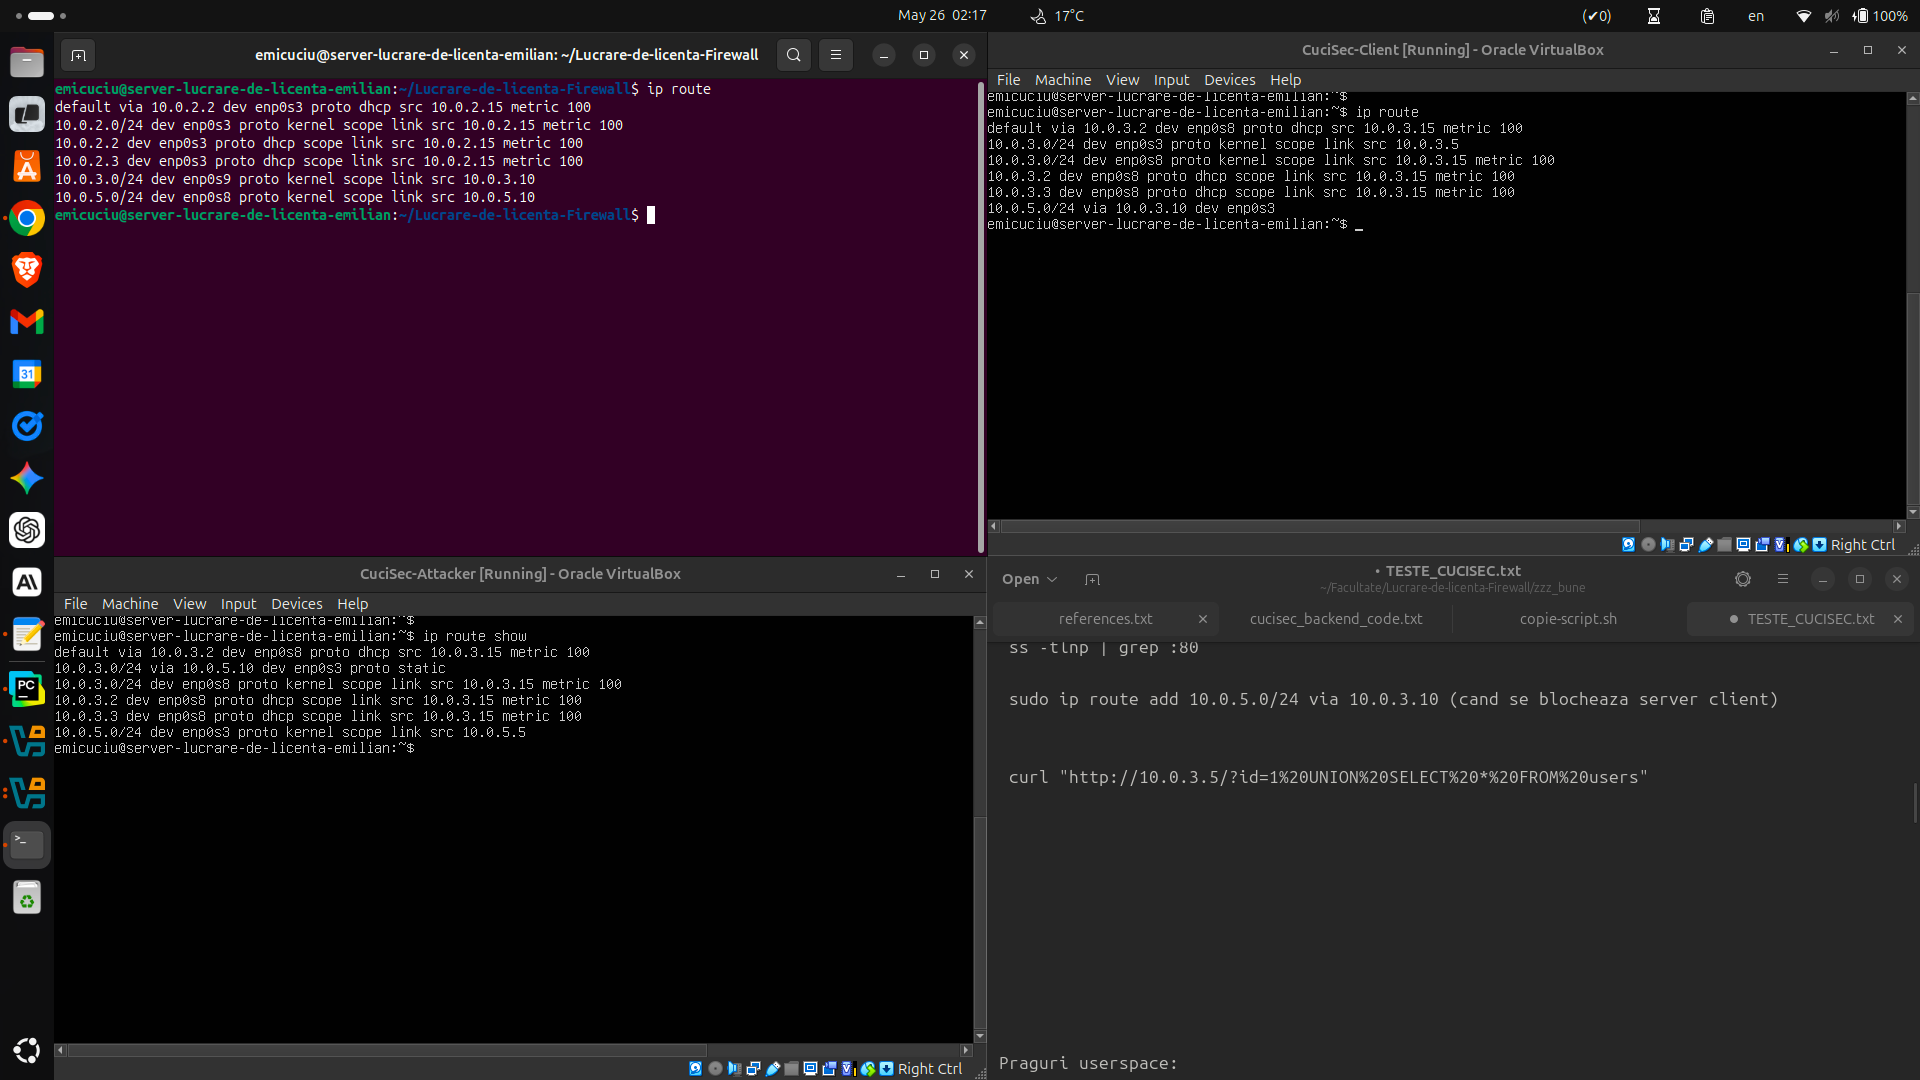
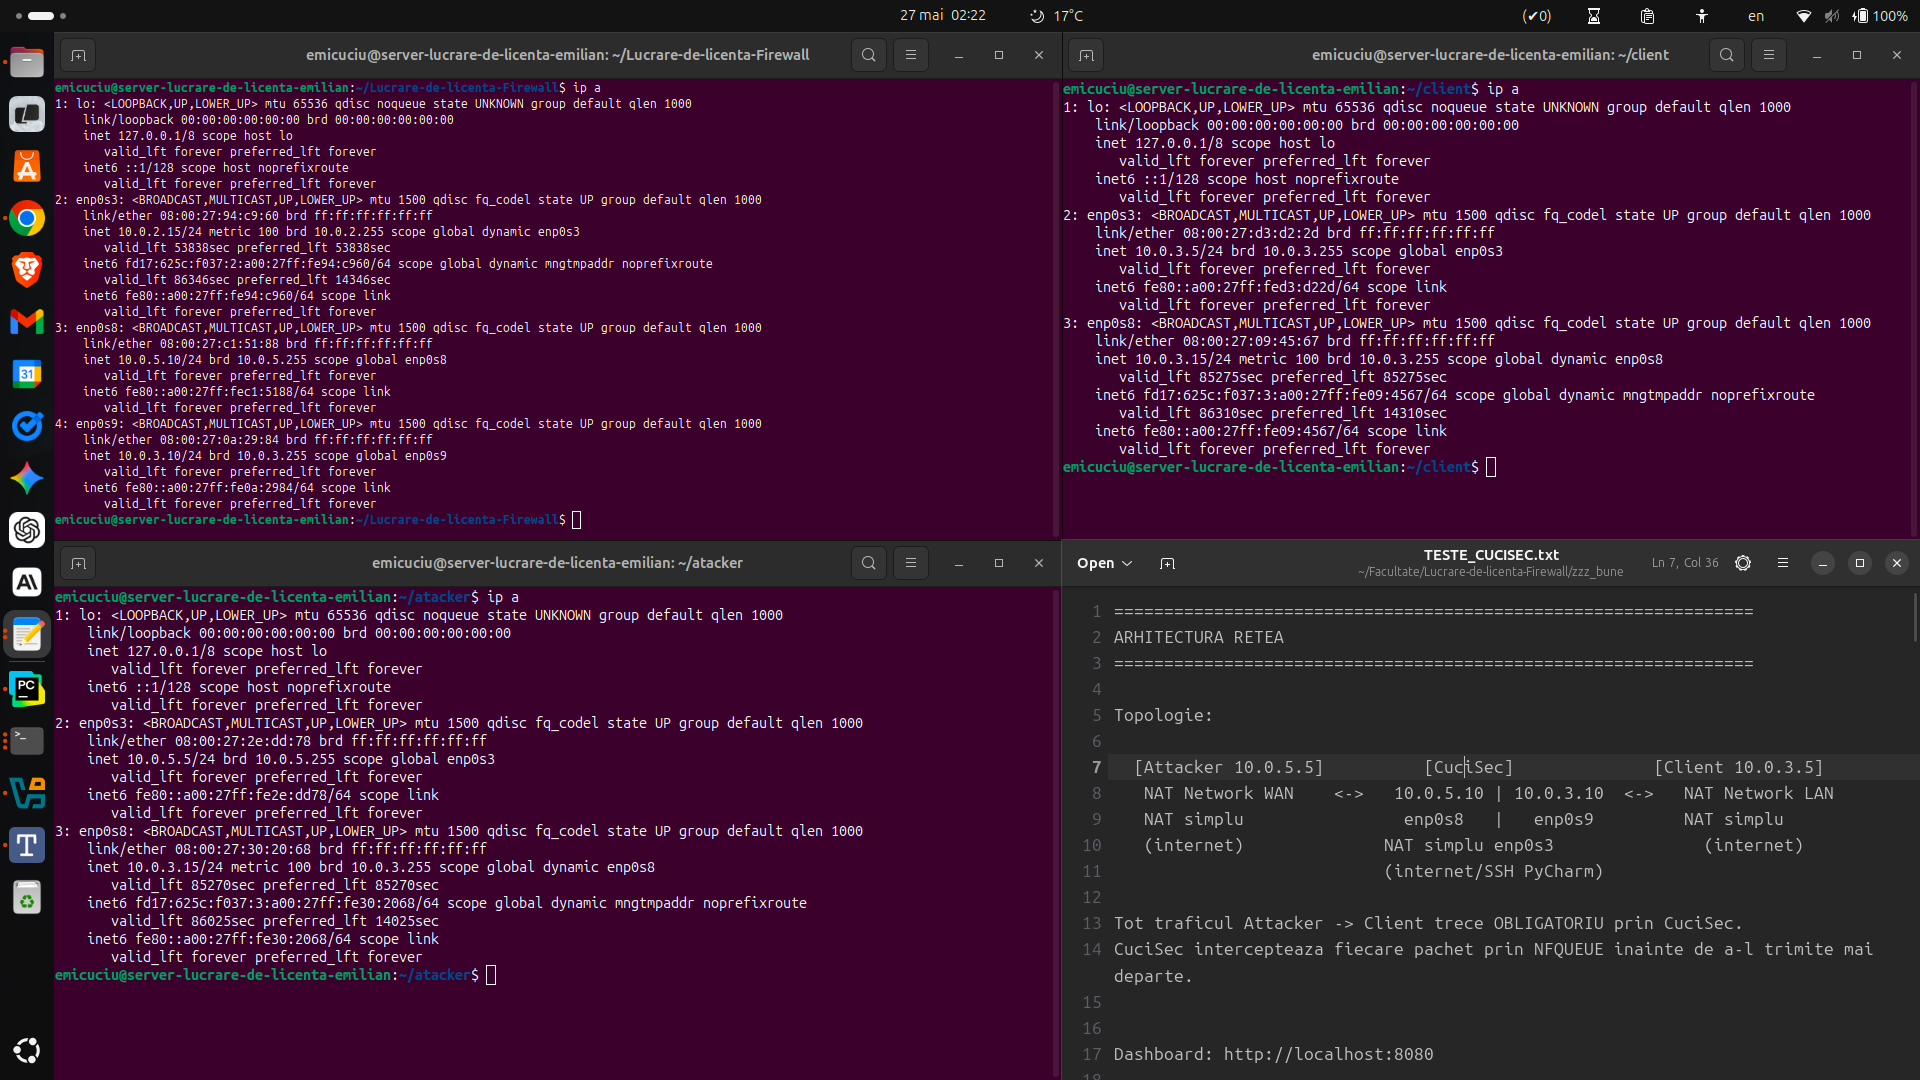
aproape gata

diff --git a/frontend-cucisec/src/components/layout/Layout.tsx b/frontend-cucisec/src/components/layout/Layout.tsx
@@ -15,12 +15,12 @@ export default function Layout() {
     return (
         <div className="flex h-screen w-screen overflow-hidden bg-background">
             {/* Sidebar Layout */}
-            <aside className="w-64 shrink-0 border-r border-border bg-card/50 px-4 py-6 flex flex-col h-full">
-                <div className="flex items-center gap-3 mb-10 px-2">
-                    <div className="bg-primary/20 p-2 rounded-lg border border-primary/30">
+            <aside className="shrink-0 border-r border-border bg-card/50 py-6 flex flex-col h-full w-14 lg:w-64 px-2 lg:px-4">
+                <div className="flex items-center gap-3 mb-10 px-1 lg:px-2">
+                    <div className="bg-primary/20 p-2 rounded-lg border border-primary/30 shrink-0">
                         <Network className="w-6 h-6 text-primary"/>
                     </div>
-                    <h1 className="text-xl font-bold tracking-tight">CuciSec</h1>
+                    <h1 className="hidden lg:block text-xl font-bold tracking-tight">CuciSec</h1>
                 </div>
 
                 {/* Routes-navigation */}
@@ -33,22 +33,23 @@ export default function Layout() {
                             <Link
                                 key={item.path}
                                 to={item.path}
+                                title={item.name}
                                 className={cn(
-                                    "flex items-center gap-3 px-3 py-2.5 rounded-md text-sm font-medium transition-all duration-200",
+                                    "flex items-center gap-3 px-2 lg:px-3 py-2.5 rounded-md text-sm font-medium transition-all duration-200 justify-center lg:justify-start",
                                     isActive
                                         ? "bg-primary text-primary-foreground shadow-md"
                                         : "text-muted-foreground hover:bg-accent hover:text-accent-foreground"
                                 )}
                             >
-                                <Icon className="w-5 h-5"/>
-                                {item.name}
+                                <Icon className="w-5 h-5 shrink-0"/>
+                                <span className="hidden lg:inline">{item.name}</span>
                             </Link>
                         );
                     })}
                 </nav>
             </aside>
 
-            <main className="flex-1 p-6 overflow-y-auto">
+            <main className="flex-1 p-4 lg:p-6 overflow-y-auto min-w-0">
                 <div className="w-full h-full">
                     <Outlet/>
                 </div>

diff --git a/frontend-cucisec/src/components/logss/LogsTable.tsx b/frontend-cucisec/src/components/logss/LogsTable.tsx
@@ -97,7 +97,7 @@ export function LogsTable() {
             </div>
 
             {/* Table */}
-            <div className="rounded-md border border-border bg-card">
+            <div className="overflow-x-auto rounded-md border border-border bg-card">
                 <Table>
                     <TableHeader>
                         <TableRow className="hover:bg-transparent">

diff --git a/frontend-cucisec/src/components/rules/RulesTable.tsx b/frontend-cucisec/src/components/rules/RulesTable.tsx
@@ -73,7 +73,7 @@ export function RulesTable() {
                 />
             )}
 
-            <div className="rounded-md border border-border bg-card">
+            <div className="overflow-x-auto rounded-md border border-border bg-card">
                 <Table>
                     <TableHeader>
                         <TableRow className="hover:bg-transparent">

diff --git a/frontend-cucisec/src/components/blacklist/BlacklistTable.tsx b/frontend-cucisec/src/components/blacklist/BlacklistTable.tsx
@@ -43,7 +43,7 @@ export function BlacklistTable() {
         );
 
     return (
-        <div className="rounded-md border border-border bg-card">
+        <div className="overflow-x-auto rounded-md border border-border bg-card">
             <Table>
                 <TableHeader>
                     <TableRow className="hover:bg-transparent">

diff --git a/infrastructure/interceptor.py b/infrastructure/interceptor.py
@@ -75,13 +75,13 @@ class PacketInterceptor:
         # Rule Engine — administrator intent takes priority over automated detection.
         decision, zone = self.rule_engine.evaluate(packet_info)
         if decision == "DROP":
-            label = f"RULE_ENGINE_DROP_{zone.replace(' ', '_').upper()}" if zone else "RULE_ENGINE_DROP"
-            logger.warning(f"[INTERCEPTOR] DROP: STATIC RULE ({label}) - ip_source: {packet_info.ip_src}:{packet_info.port_src}")
+            label = f"RULE ENGINE {zone.replace(' ', '_').upper()}" if zone else "RULE ENGINE"
+            logger.warning(f"[INTERCEPTOR] DROP: {label} - ip_source: {packet_info.ip_src}:{packet_info.port_src}")
             self.actions.drop_packet(packet, packet_info, label)
             return
         if decision == "ACCEPT":
-            label = f"RULE_ENGINE_ACCEPT_{zone.replace(' ', '_').upper()}" if zone else "RULE_ENGINE_ACCEPT"
-            logger.info(f"[INTERCEPTOR] ACCEPT: STATIC RULE ({label})")
+            label = f"RULE ENGINE {zone.replace(' ', '_').upper()}" if zone else "RULE ENGINE"
+            logger.info(f"[INTERCEPTOR] ACCEPT: {label}")
             self.actions.accept_packet(packet, packet_info, label)
             return
 
